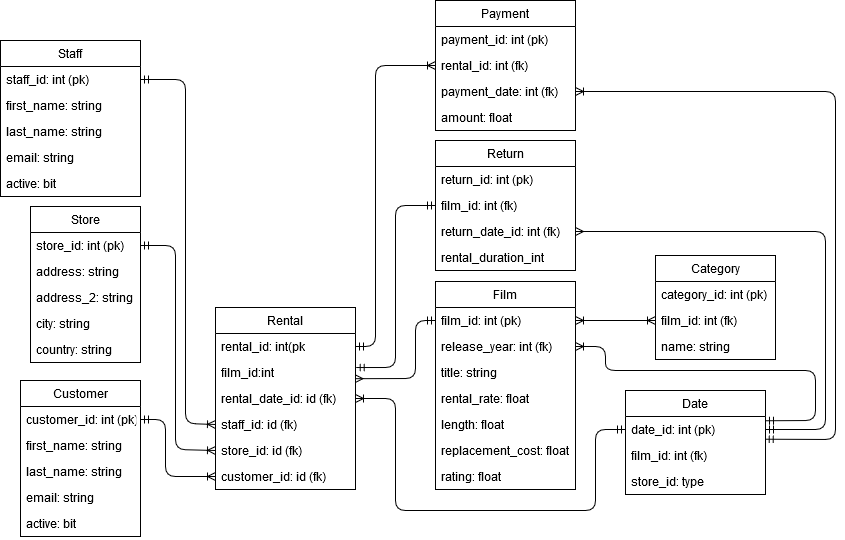
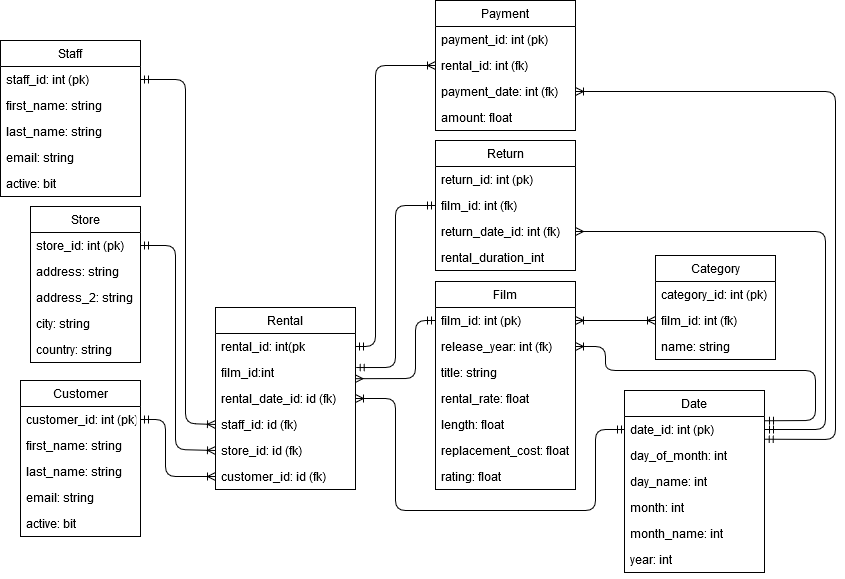
Adding more progress on Challenge 2

diff --git a/Workshop #2/README.md b/Workshop #2/README.md
@@ -136,6 +136,18 @@ And you transform all this data into valuable information as:
 - Most accessed pages of your website
 - Most common web browsers/operating systems checking your website
 
+### How can we load this data into a database?
+
+The most important part is that you must break down each one of the lines of a log into the parts that you want to upload into your warehouse. For example, if you take a look at the previous log line example, you can find that it have this format:
+
+```log
+[IP] - - [Datetime] [Resource string] [HTTP response code] 
+[Resource size] [Referref] [Visitor machine information as: Web browser - Operating System - Web engine]
+```
+
+### Proposed data warehouse model
+
+![alt text](./Challenge2/misc/Weblog_DW.png "Weblog approach of a DW")
 
 ## Challenge #3
 
